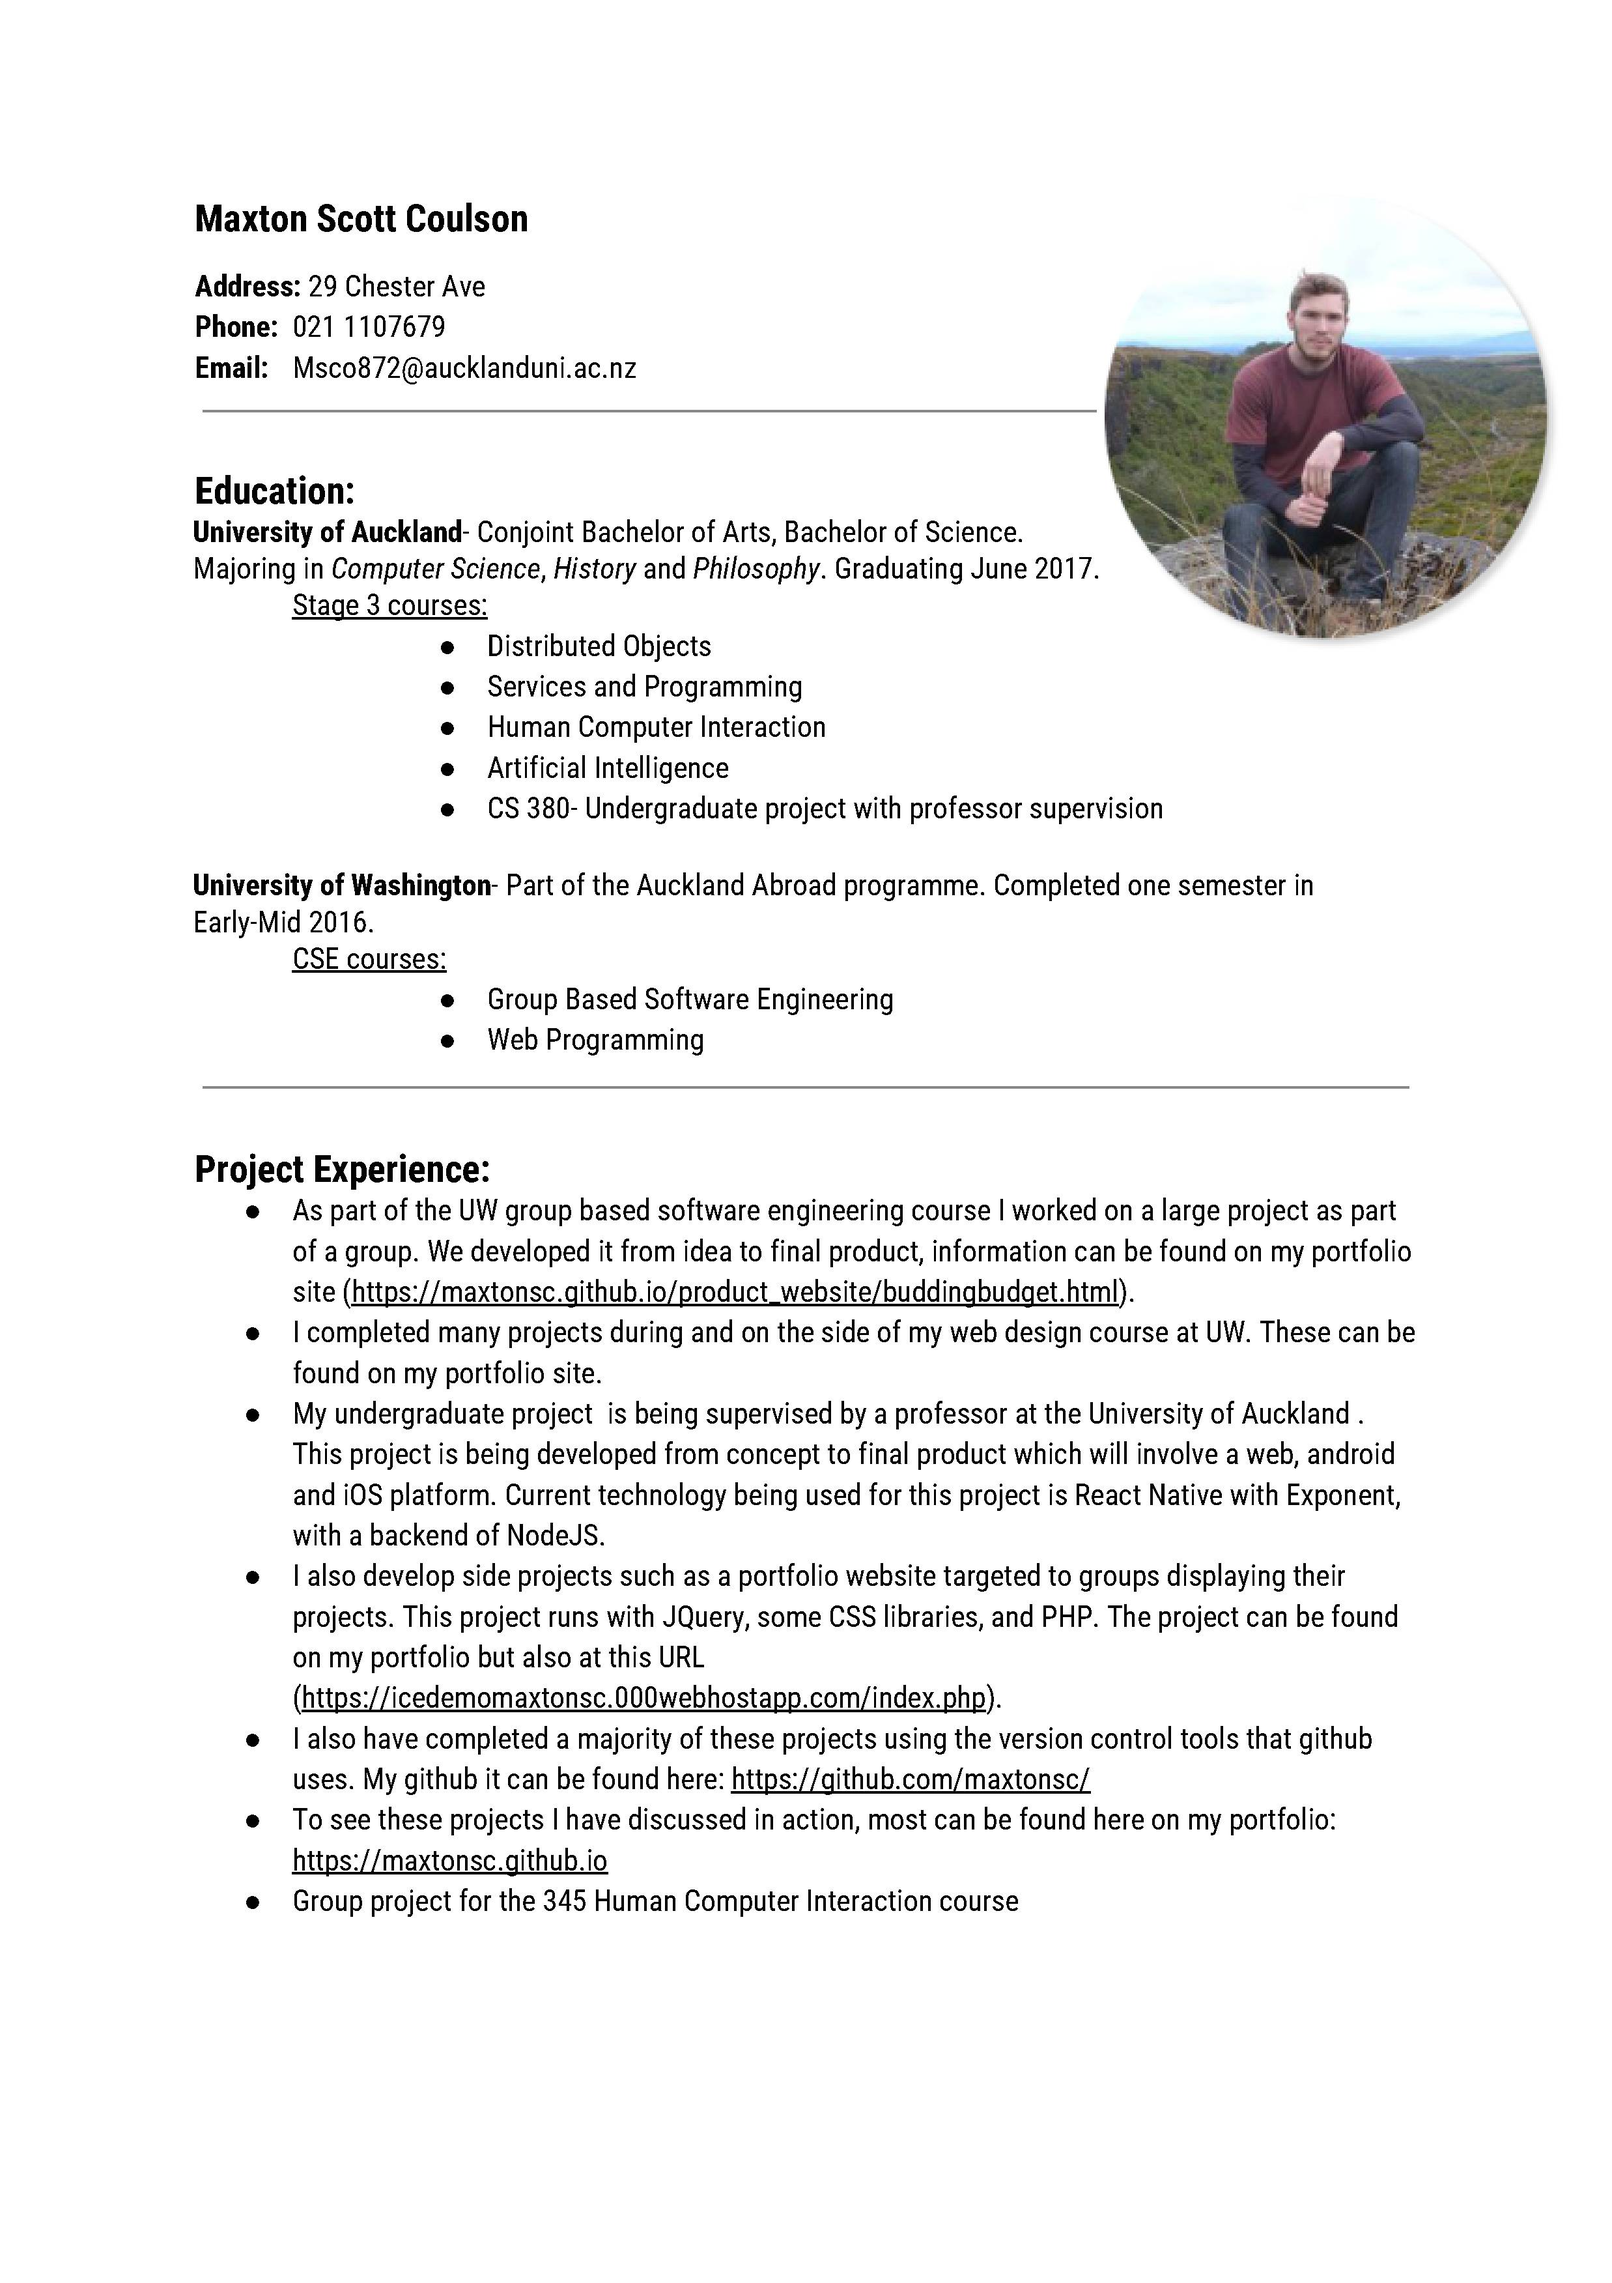
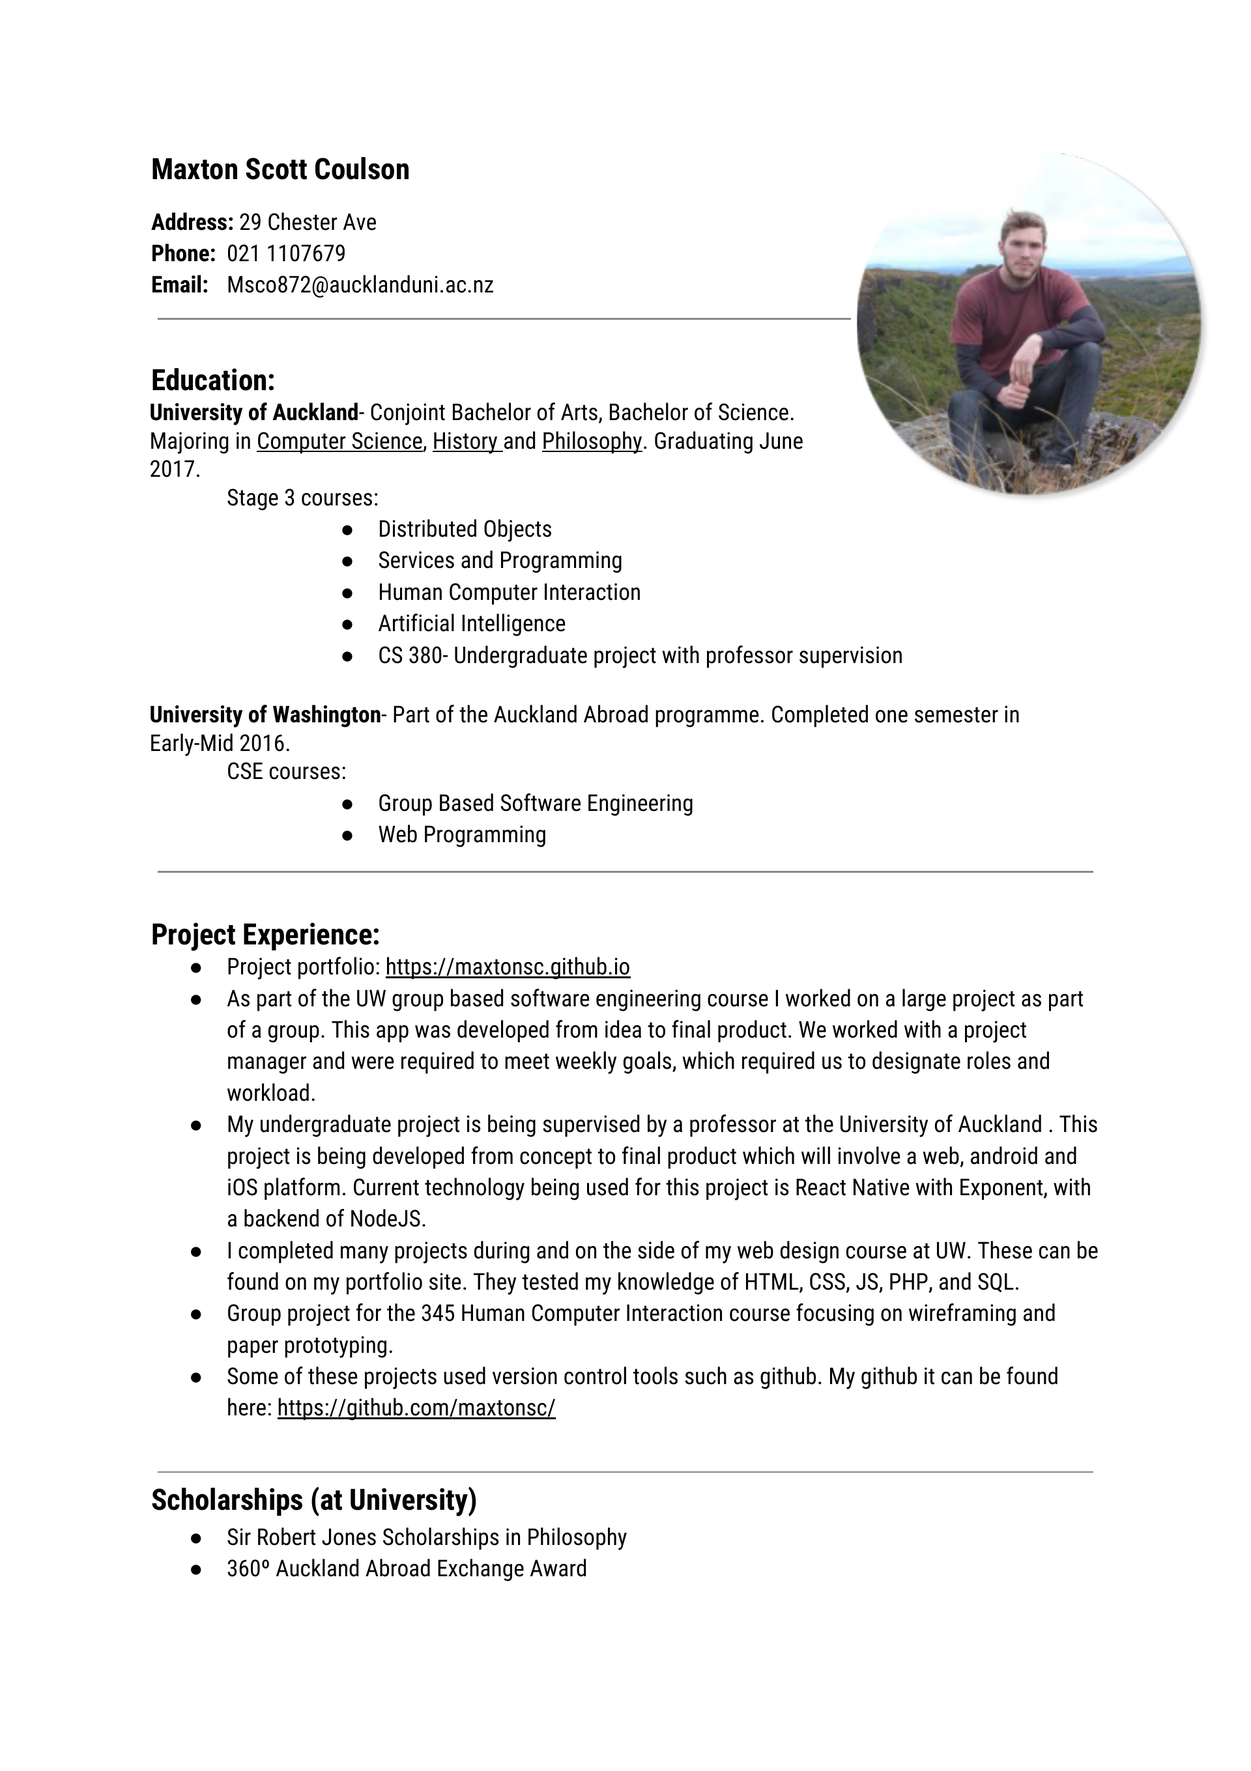
Reworked and updated Resume

Changed region(s): [[0.125, 0.2163, 0.875, 0.8959], [0.1875, 0.1236, 0.3125, 0.1854], [0.125, 0.1236, 0.1562, 0.1854]]

diff --git a/js/main.js b/js/main.js
@@ -52,41 +52,34 @@ function blogpost($contentName){
 
 function displayCV(){
 
-	$("body > *").fadeOut( 2000 );
+	$("body > *").fadeOut( 500 );
 
 	function emptyBody() {
     $('body > *').css("display","none");
     $('html').css("background-color","#ffffff");
     $('body').css("height","100%");
     $("#CV").css("display","flex");
-    $("#CVTopDiv").css("display","flex");
-    $("#CVTopDiv").addClass("slideExpandUp");
+
     $(".resumePDF").css("visibility","visible");
     $(".resumePDF").css("display","none");
-    $(".resumePDF").fadeIn(4000).css("display","flex");
+    $(".resumePDF").fadeIn(500).css("display","flex");
 
     	
     setTimeout(function(){
-    	$("#CVMidDiv").css("display","flex");
-    	$("#CVMidDiv").addClass("slideExpandUp")}, 200);
- 	
- 	setTimeout(function(){
- 		$("#CVBotDiv").css("display","flex");
-    	$("#CVBotDiv").addClass("slideExpandUp")}, 400);
+    	$("#CVTopDiv").css("display","flex");
+    	$("#CVTopDiv").addClass("slideExpandUp")}, 1000);
  	}
-	setTimeout(emptyBody, 3000);
+	setTimeout(emptyBody, 600);
 
 }
 
 function displayBod(){
-	$("#CV").fadeOut( 1000 );
+	$("#CV").fadeOut( 500 );
 	setTimeout(function(){
     	$("#CV").css("display","none");
     	$("#CVTopDiv").removeClass("slideExpandUp");
-		$("#CVMidDiv").removeClass("slideExpandUp");
-		$("#CVBotDiv").removeClass("slideExpandUp");
  	}, 1000);	
-	$('body > *:not(#CV)').fadeIn(2000).css("display","block");
+	$('body > *:not(#CV)').fadeIn(1300).css("display","block");
 
 }
 

diff --git a/css/style.css b/css/style.css
@@ -144,12 +144,19 @@ p {
 	.text{
 	font-size:1.5em;
 }
+	.imageHolder{
+		margin-left:100px;
+		margin-right:100px;
+	}
 }
 
 @media (max-width:1300px){
 	.text{
 	font-size:1em;
 }
+.imageHolder{
+		margin:0;
+	}
 }
 @media (max-width:992px){
 	.jumbotron h1{
@@ -158,10 +165,9 @@ p {
 		.text{
 	font-size:0.8em;
 }
-		#CV > *{
-			width:120%;
-			height:200%;
-		}
+.imageHolder{
+		margin:0;
+	}
 
 }
 @media (max-width:768px){
@@ -197,6 +203,10 @@ p {
     .brand-logo{
     	display:none !important;
     }
+
+    .imageHolder{
+		margin:0;
+	}
 
 }
 
@@ -339,19 +349,7 @@ article:not(:first-child){
 	color:#333;
 }
 
-#CV{
-	display:none;
-	background-color: #d3d3d3;
-	flex: 0 0 25em;
-	align-items:center;
-	flex-direction:column;
-	
-}
 
-#CV > *{
-	visibility: hidden;
-	justify-content: center;
-}
 
 
 
@@ -402,5 +400,29 @@ article:not(:first-child){
 .resumePDF{
 	display:flex;
 	flex-direction: column;
-	height:1000px;
+	width:100%;
+	height:100%;
+
+}
+
+
+
+#CV{
+	display:none;
+	background-color: #d3d3d3;
+	flex: 0 0 25em;
+	align-items:center;
+	flex-direction:column;
+	
+}
+
+#CV > *{
+	visibility: hidden;
+	justify-content: center;
+}
+
+#CVTopDiv{
+	position: fixed;
+	top:0;
+	right:10%;
 }

diff --git a/index.html b/index.html
@@ -50,18 +50,16 @@
 
 
       <div id="CV">
-      <!--<iframe id="resumePDF" src="Resume-Maxton.pdf"></iframe> -->
-      <img class="resumePDF" src="file-page1.jpg">
+      <div id="CVTopDiv"
+          <p> <a href="#" onclick="displayBod();"><button class="btn wave-effect wave-light">Return to Portfolio</button></a></p>
+        </div>
+      <div class="imageHolder">
+        <img class="resumePDF" src="file-page1.jpg">
+      </div>
+      <br/>
+      <div class="imageHolder">
       <img class="resumePDF" src="file-page2.jpg">
-        <div id="CVTopDiv"
-          <p> Test One</p>
-        </div>
-        <div id="CVMidDiv"
-          <p> Test Two</p>
-        </div>
-        <div id="CVBotDiv"
-          <p> <a href="#" onclick="displayBod();">Return to Index</a></p>
-        </div>
+      </div>
       </div>
         <!--[if lt IE 8]>
             <p class="browserupgrade">You are using an <strong>outdated</strong> browser. Please <a href="http://browsehappy.com/">upgrade your browser</a> to improve your experience.</p>
